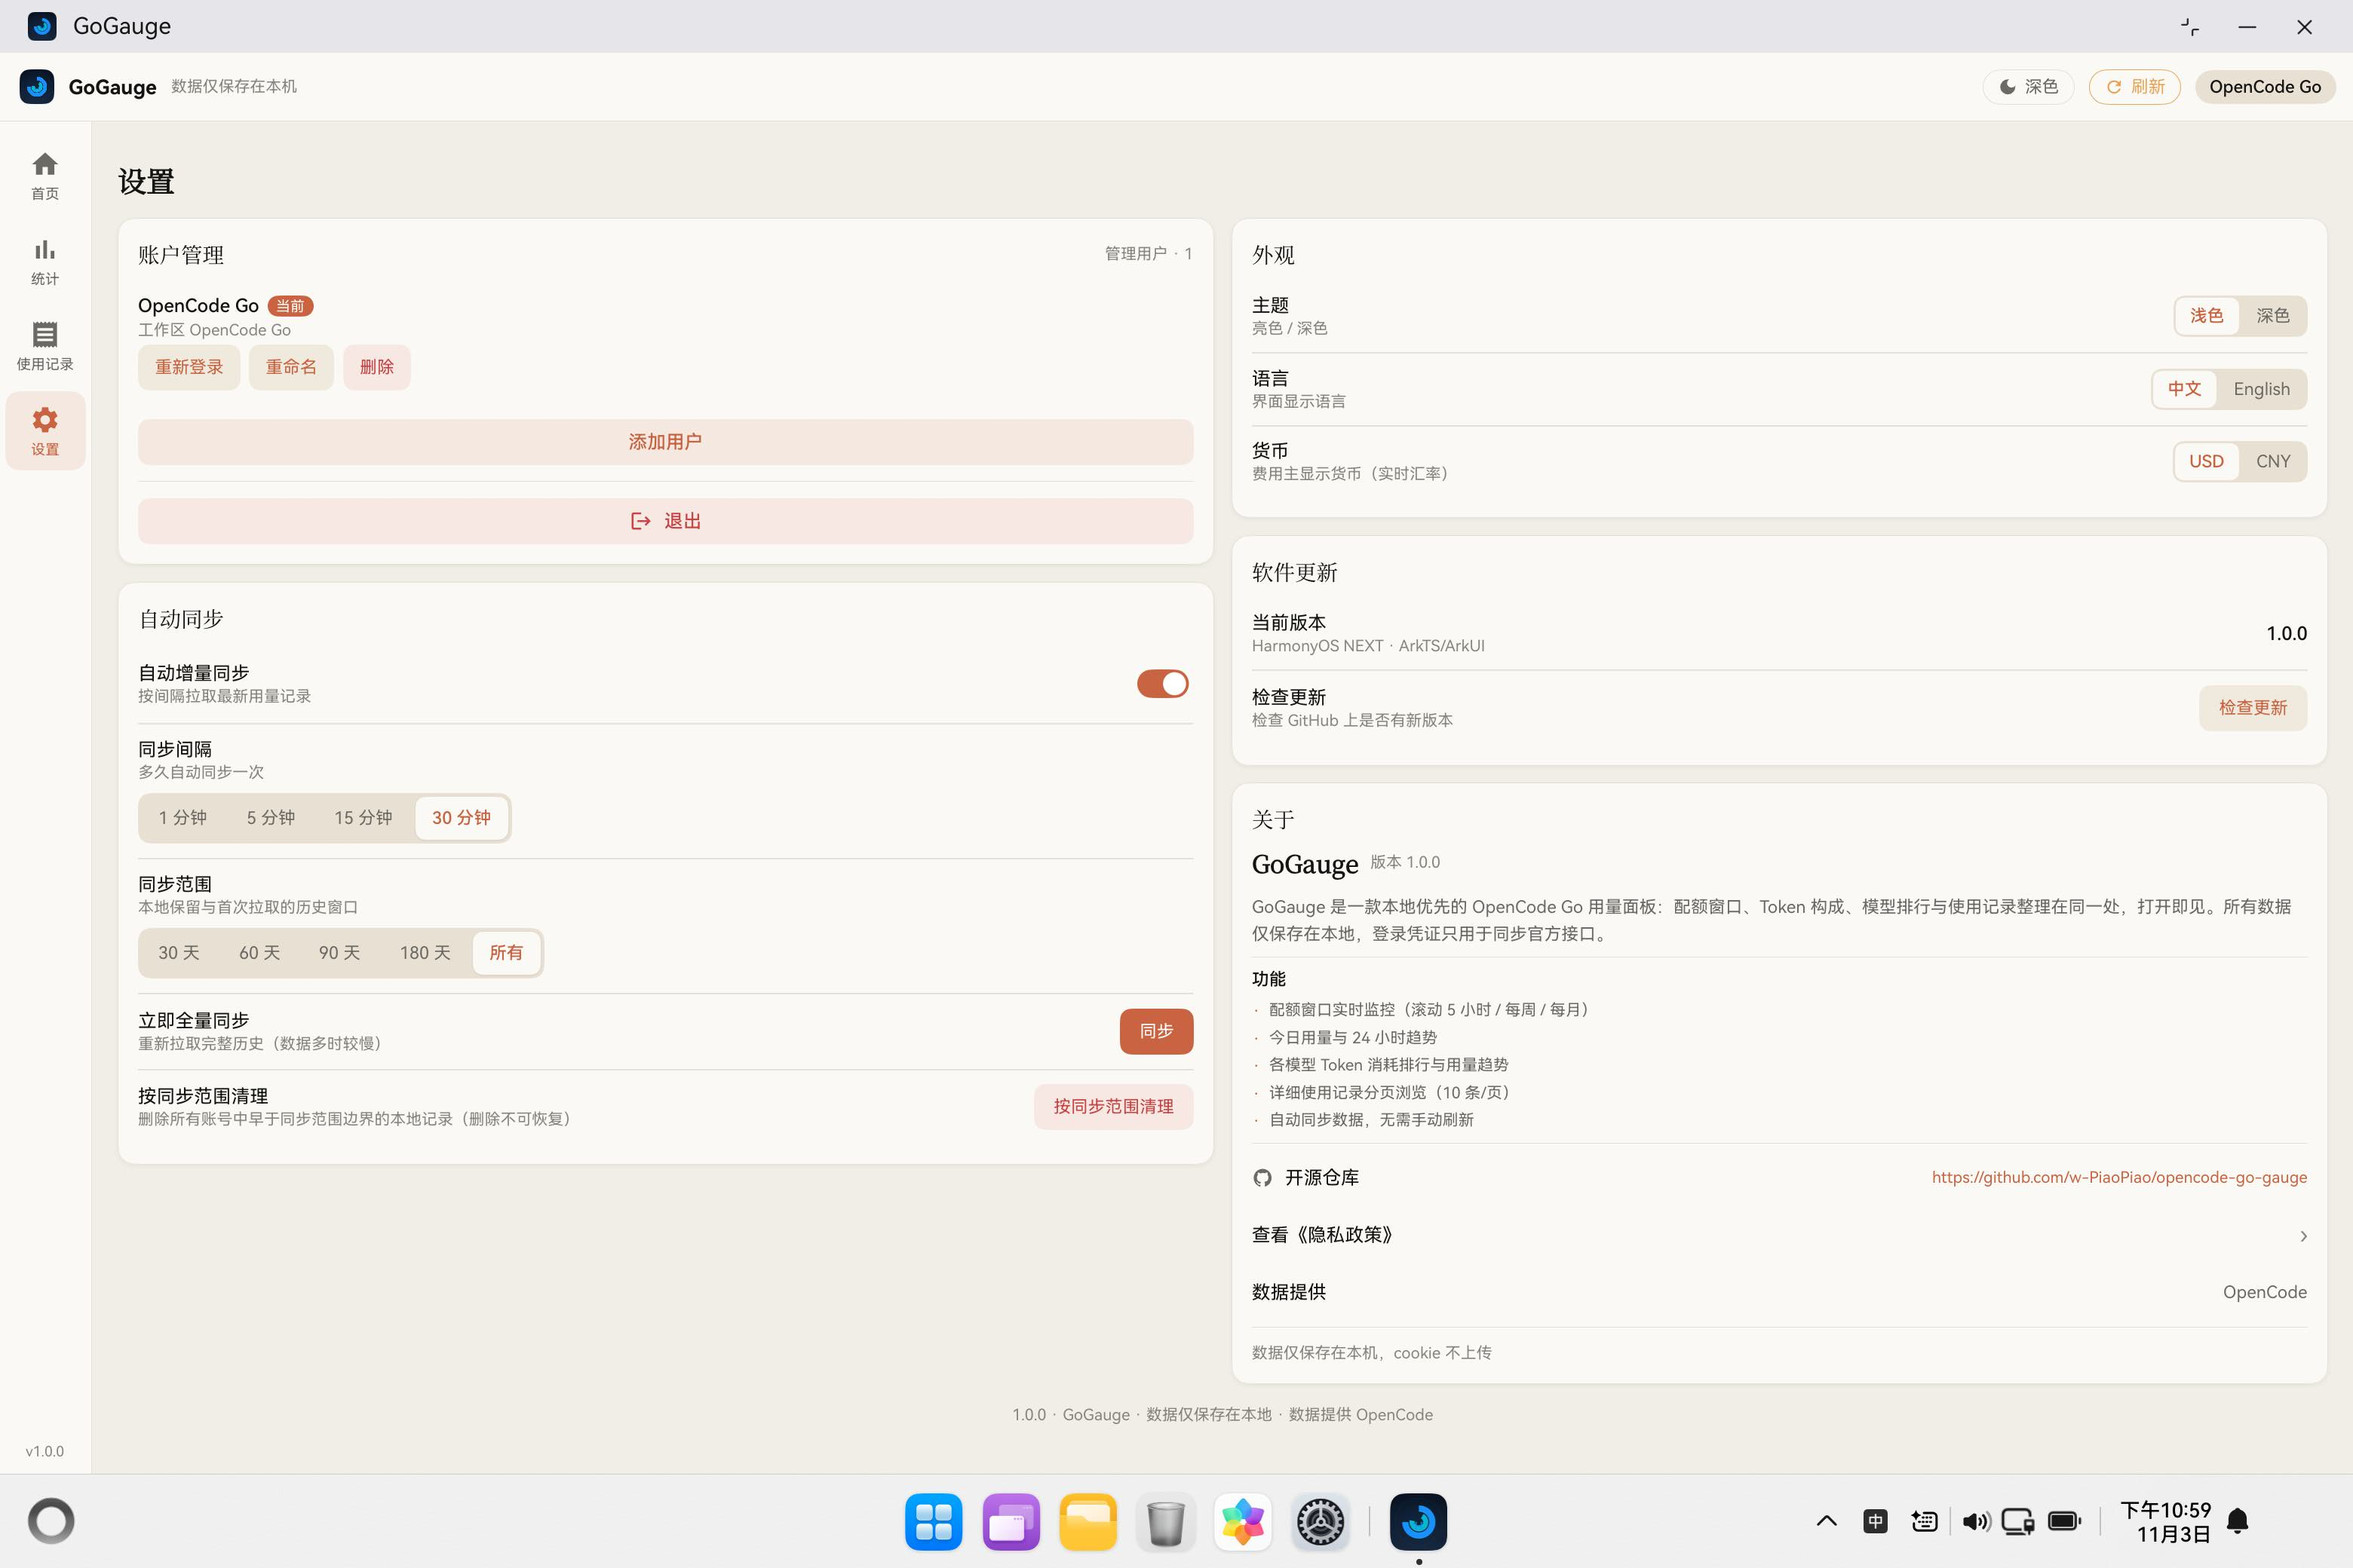
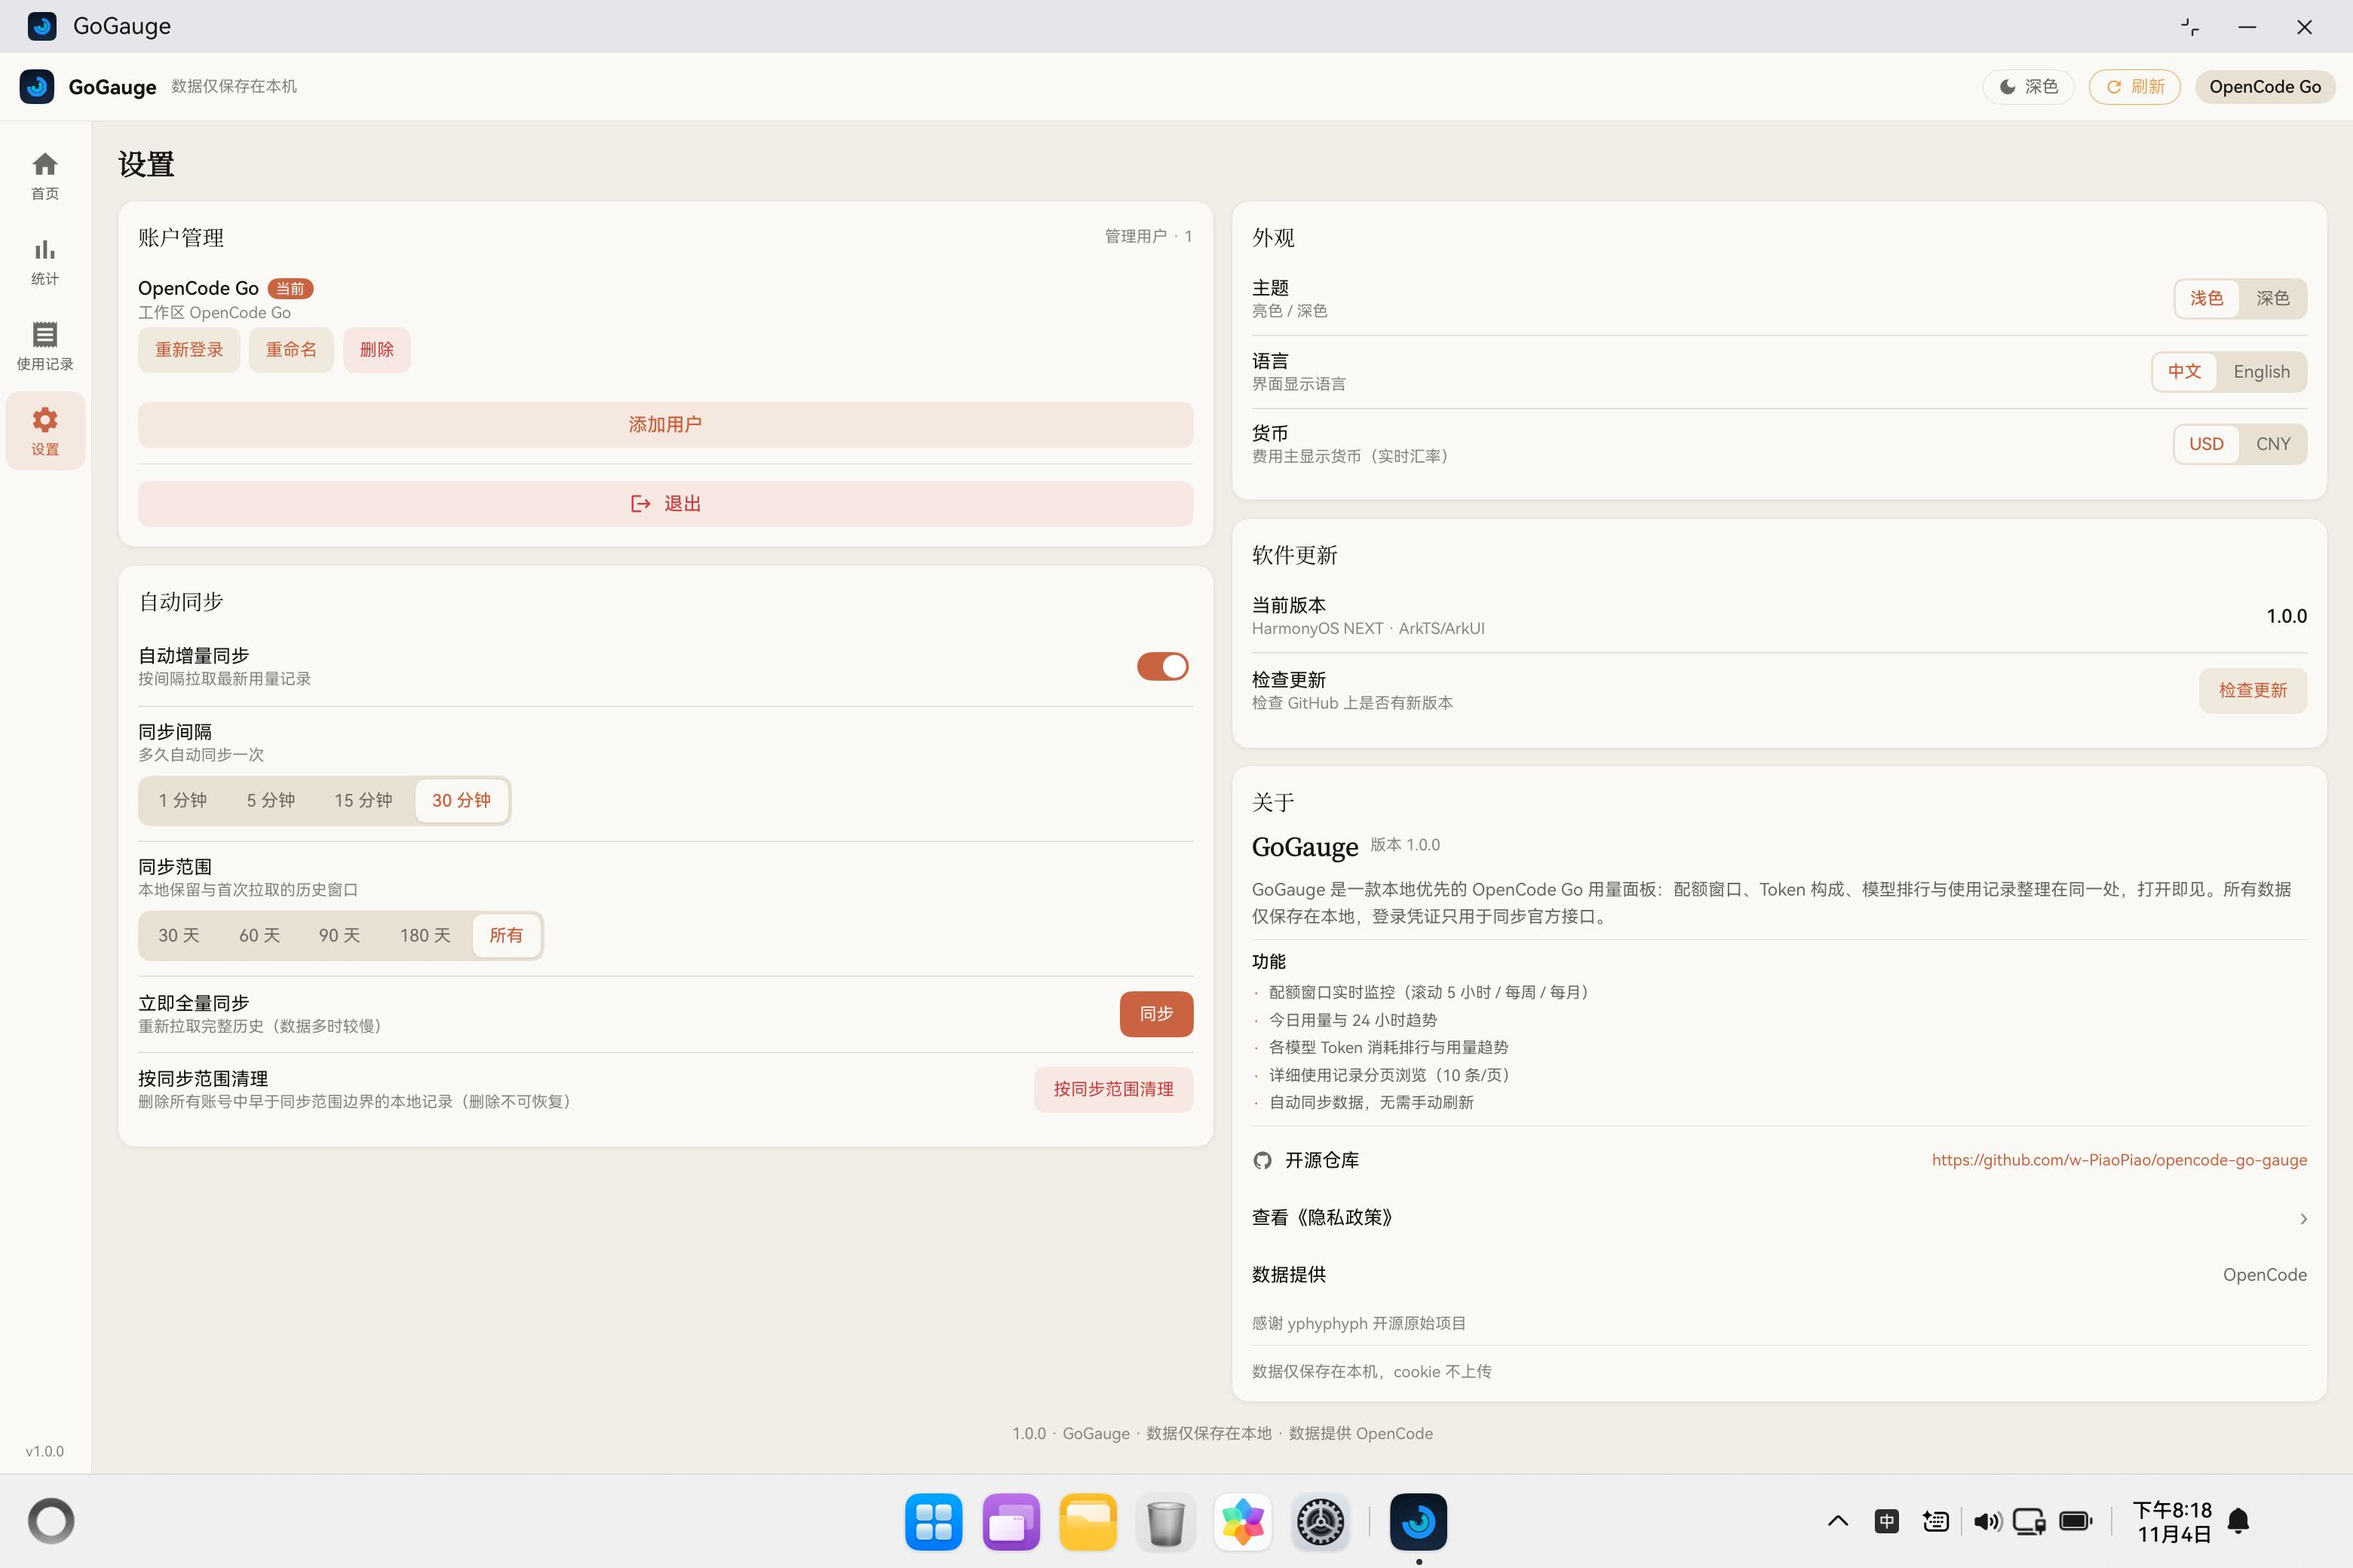
fix(about): 链接改指 w-PiaoPiao 仓库、移除 CSDN、致谢补充原始项目作者 yphyphyph（全端）
- 桌面（web/pywebview）：关于页 GitHub 链接改指 https://github.com/w-PiaoPiao/opencode-go-gauge，
  删除 CSDN 链接；致谢新增「感谢 yphyphyph 开源原始项目」，中英 i18n 同步（app.js）
- Android（Compose）：关于卡新增「链接」区（GitHub 可点击跳浏览器，w-PiaoPiao 仓库）与
  yphyphyph 致谢文案；Strings.kt 增加 aboutLinks/thanksSub 中英字段，compileDebugKotlin 通过
- HarmonyOS（ArkTS/ArkUI）：关于卡保留开源仓库（w-PiaoPiao）链接，新增 yphyphyph 致谢行；
  I18n 增加 thanksSub（中英）；单测 35/35、debug HAP 与 release .app 重新构建通过
- README / README_en：联系链接改指 w-PiaoPiao 仓库，移除 CSDN，新增致谢段（OpenCode 数据 + yphyphyph 原始项目）
- 商店素材：PC 设置页截图随关于卡内容更新重拍（3120×2080）/重转 1920×1080，
  screenshot-manifest 同步更新；手机 9 张截图与其余 PC 截图不变

diff --git a/android/app/src/main/java/io/github/yphyphyph/gogauge/ui/settings/SettingsScreen.kt b/android/app/src/main/java/io/github/yphyphyph/gogauge/ui/settings/SettingsScreen.kt
@@ -1,12 +1,15 @@
 package io.github.yphyphyph.gogauge.ui.settings
 
 import android.Manifest
+import android.content.Intent
 import android.content.pm.PackageManager
+import android.net.Uri
 import android.os.Build
 import android.widget.Toast
 import androidx.activity.compose.rememberLauncherForActivityResult
 import androidx.activity.result.contract.ActivityResultContracts
 import androidx.compose.foundation.background
+import androidx.compose.foundation.clickable
 import androidx.compose.foundation.layout.Arrangement
 import androidx.compose.foundation.layout.Box
 import androidx.compose.foundation.layout.Column
@@ -427,10 +430,39 @@ fun SettingsScreen(vm: MainViewModel = viewModel()) {
                 }
             }
             Text(
-                "${s.thanksText} OpenCode · ${s.pageFoot.replace("{version}", "v${BuildConfig.VERSION_NAME}")}",
+                s.aboutLinks,
+                style = MaterialTheme.typography.titleSmall,
+                modifier = Modifier.padding(start = 16.dp, top = 6.dp),
+            )
+            Text(
+                "GitHub: github.com/w-PiaoPiao/opencode-go-gauge",
+                fontSize = 12.5.sp,
+                color = MaterialTheme.colorScheme.primary,
+                modifier = Modifier
+                    .padding(horizontal = 16.dp, vertical = 6.dp)
+                    .clickable {
+                        runCatching {
+                            context.startActivity(
+                                Intent(
+                                    Intent.ACTION_VIEW,
+                                    Uri.parse("https://github.com/w-PiaoPiao/opencode-go-gauge"),
+                                ),
+                            )
+                        }
+                    },
+            )
+            Text(
+                "${s.thanksText} OpenCode · ${s.thanksSub}",
                 fontSize = 11.5.sp,
+                lineHeight = 18.sp,
                 color = MaterialTheme.colorScheme.onSurfaceVariant,
                 modifier = Modifier.padding(horizontal = 16.dp, vertical = 10.dp),
+            )
+            Text(
+                s.pageFoot.replace("{version}", "v${BuildConfig.VERSION_NAME}"),
+                fontSize = 10.5.sp,
+                color = MaterialTheme.colorScheme.outline,
+                modifier = Modifier.padding(start = 16.dp, end = 16.dp, bottom = 10.dp),
             )
         }
         Spacer(Modifier.height(8.dp))

diff --git a/android/app/src/main/java/io/github/yphyphyph/gogauge/ui/Strings.kt b/android/app/src/main/java/io/github/yphyphyph/gogauge/ui/Strings.kt
@@ -92,6 +92,8 @@ open class Strings(
     val feat4: String,
     val feat5: String,
     val thanksText: String,
+    val thanksSub: String,
+    val aboutLinks: String,
     val pageFoot: String,
     val welcomeDesc: String,
     val welcomeFeat1: String,
@@ -295,6 +297,8 @@ object ZhStrings : Strings(
     feat4 = "详细使用记录分页浏览（10 条/页）",
     feat5 = "自动同步数据，无需手动刷新",
     thanksText = "数据提供",
+    thanksSub = "感谢 yphyphyph 开源原始项目",
+    aboutLinks = "链接",
     pageFoot = "{version} · GoGauge · 数据仅保存在本地 · 数据提供 OpenCode",
     welcomeDesc = "本地优先的 OpenCode Go 用量仪表盘 — 配额窗口、Token 构成、模型排行、使用记录，打开即见。",
     welcomeFeat1 = "配额实时监控（5 小时 / 每周 / 每月）",
@@ -423,6 +427,8 @@ object EnStrings : Strings(
     feat4 = "Paginated usage records (10 per page)",
     feat5 = "Auto sync — no manual refresh needed",
     thanksText = "Data provided by",
+    thanksSub = "Thanks to yphyphyph for the original open-source project",
+    aboutLinks = "Links",
     pageFoot = "{version} · GoGauge · Local-only data · Data by OpenCode",
     welcomeDesc = "A local-first OpenCode Go usage dashboard — quota windows, token breakdown, model ranking and usage records in one place.",
     welcomeFeat1 = "Real-time quota monitoring (5h / weekly / monthly)",

diff --git a/app/web/app.js b/app/web/app.js
@@ -46,6 +46,7 @@ const I18N = {
     feat2: "今日用量与 24 小时趋势", feat3: "各模型 Token 消耗排行与用量趋势",
     feat4: "详细使用记录分页浏览（10 条/页）", feat5: "自动同步数据，无需手动刷新",
      aboutLinks: "链接", aboutThanks: "致谢", thanksText: "数据提供",
+     thanksSub: "感谢 yphyphyph 开源原始项目。",
     pageFoot: "{version} · GoGauge · 数据仅保存在本地 · 数据提供 OpenCode",
         welcomeDesc: "本地优先的 OpenCode Go 用量仪表盘 — 配额窗口、Token 构成、模型排行、使用记录，打开即见。",
     welcomeFeat1: "配额实时监控（5 小时 / 每周 / 每月）",
@@ -160,6 +161,7 @@ const I18N = {
     feat2: "Today's usage with 24-hour trend", feat3: "Per-model token ranking and usage trend",
     feat4: "Paginated usage records (10 per page)", feat5: "Auto sync — no manual refresh needed",
      aboutLinks: "Links", aboutThanks: "Thanks", thanksText: "Data provided by",
+     thanksSub: "Thanks to yphyphyph for the original open-source project.",
     pageFoot: "{version} · GoGauge · Local-only data · Data by OpenCode",
         welcomeDesc: "A local-first OpenCode Go usage dashboard — quota windows, token breakdown, model ranking and usage records in one place.",
     welcomeFeat1: "Real-time quota monitoring (5h / weekly / monthly)",

diff --git a/app/web/index.html b/app/web/index.html
@@ -215,13 +215,15 @@
       <div class="card set-card">
         <h3 data-i18n="aboutLinks">链接</h3>
         <p class="thanks">
-          GitHub: <a class="ext-link" href="https://github.com/yphyphyph/opencode-go-gauge" target="_blank">github.com/yphyphyph/opencode-go-gauge</a><br>
-          CSDN: <a class="ext-link" href="https://blog.csdn.net/Ying_ph" target="_blank">blog.csdn.net/Ying_ph</a>
+          GitHub: <a class="ext-link" href="https://github.com/w-PiaoPiao/opencode-go-gauge" target="_blank">github.com/w-PiaoPiao/opencode-go-gauge</a>
         </p>
       </div>
       <div class="card set-card">
         <h3 data-i18n="aboutThanks">致谢</h3>
-        <p class="thanks"><span data-i18n="thanksText">数据提供</span> <b>OpenCode</b>。</p>
+        <p class="thanks">
+          <span data-i18n="thanksText">数据提供</span> <b>OpenCode</b>。<br>
+          <span data-i18n="thanksSub">感谢 yphyphyph 开源原始项目。</span>
+        </p>
       </div>
       <div class="pagefoot" data-i18n="pageFoot">GoGauge · 数据仅保存在本地 · 数据提供 OpenCode</div>
     </section>

diff --git a/README_en.md b/README_en.md
@@ -140,8 +140,12 @@ Python · pywebview (WebView2 / WKWebView) · SQLite · Chart.js · pystray
 
 ## 📬 Contact
 
-- GitHub: [yphyphyph/opencode-go-gauge](https://github.com/yphyphyph/opencode-go-gauge)
-- CSDN: [Ying_ph](https://blog.csdn.net/Ying_ph)
+- GitHub: [w-PiaoPiao/opencode-go-gauge](https://github.com/w-PiaoPiao/opencode-go-gauge)
+
+## 🙏 Acknowledgements
+
+- Data provided by **OpenCode**
+- Original project by **yphyphyph** — [yphyphyph/opencode-go-gauge](https://github.com/yphyphyph/opencode-go-gauge) (this repository is a fork)
 
 ## 📄 License
 

diff --git a/README.md b/README.md
@@ -140,8 +140,12 @@ Python · pywebview (WebView2 / WKWebView) · SQLite · Chart.js · pystray
 
 ## 📬 联系
 
-- GitHub：[yphyphyph/opencode-go-gauge](https://github.com/yphyphyph/opencode-go-gauge)
-- CSDN：[Ying_ph](https://blog.csdn.net/Ying_ph)
+- GitHub：[w-PiaoPiao/opencode-go-gauge](https://github.com/w-PiaoPiao/opencode-go-gauge)
+
+## 🙏 致谢
+
+- 数据提供：**OpenCode**
+- 原始项目：**yphyphyph** —— [yphyphyph/opencode-go-gauge](https://github.com/yphyphyph/opencode-go-gauge)（本项目 fork 自该仓库）
 
 ## 📄 License
 

diff --git a/harmonyos/docs/store-assets/screenshot-manifest.md b/harmonyos/docs/store-assets/screenshot-manifest.md
@@ -1,6 +1,6 @@
 # GoGauge HarmonyOS 商店截图清单（screenshot-manifest）
 
-> 自动生成于 2026-11-03 23:06:11 CST，由 `scripts/emu/capture-store-shots.sh` 扫描输出目录生成。
+> 自动生成于 2026-11-04 20:19:50 CST，由 `scripts/emu/capture-store-shots.sh` 扫描输出目录生成。
 > 本清单仅收录正式素材（顶层 <page>-<theme>.jpeg）；`_degraded/` 与 `smoke-*` 为验证/退化资产，**不得用于上架**。
 
 | 文件（相对 docs/store-assets/screenshots/） | 形态 | 页面 | 主题 | 分辨率 | 大小 |
